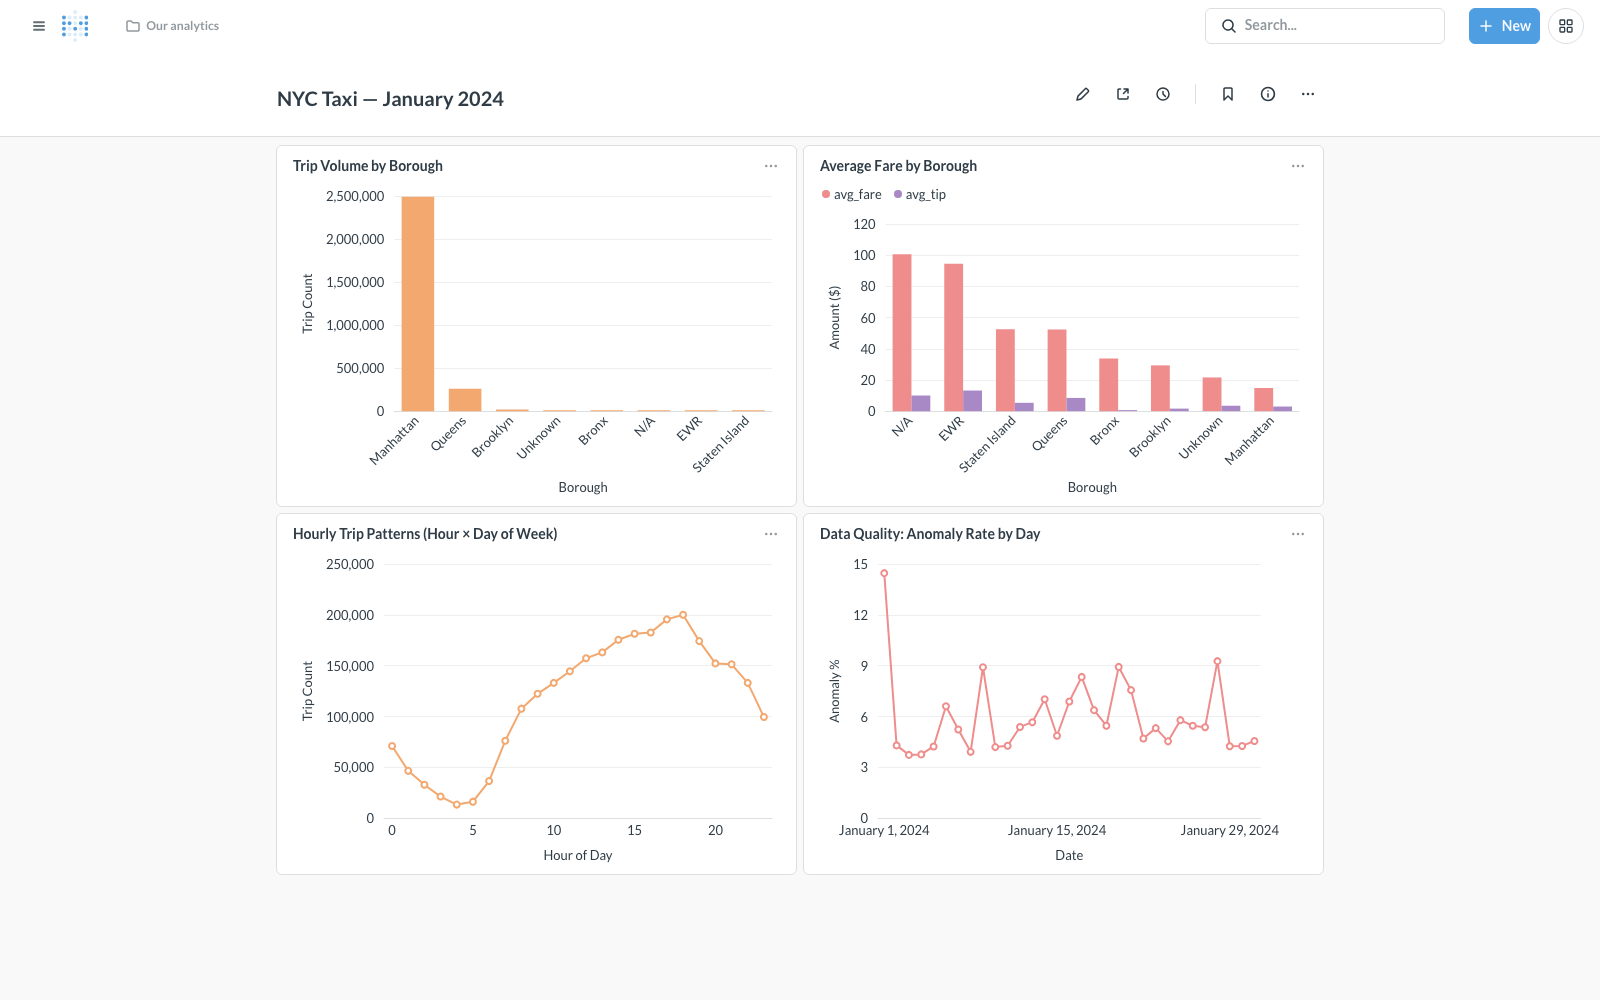
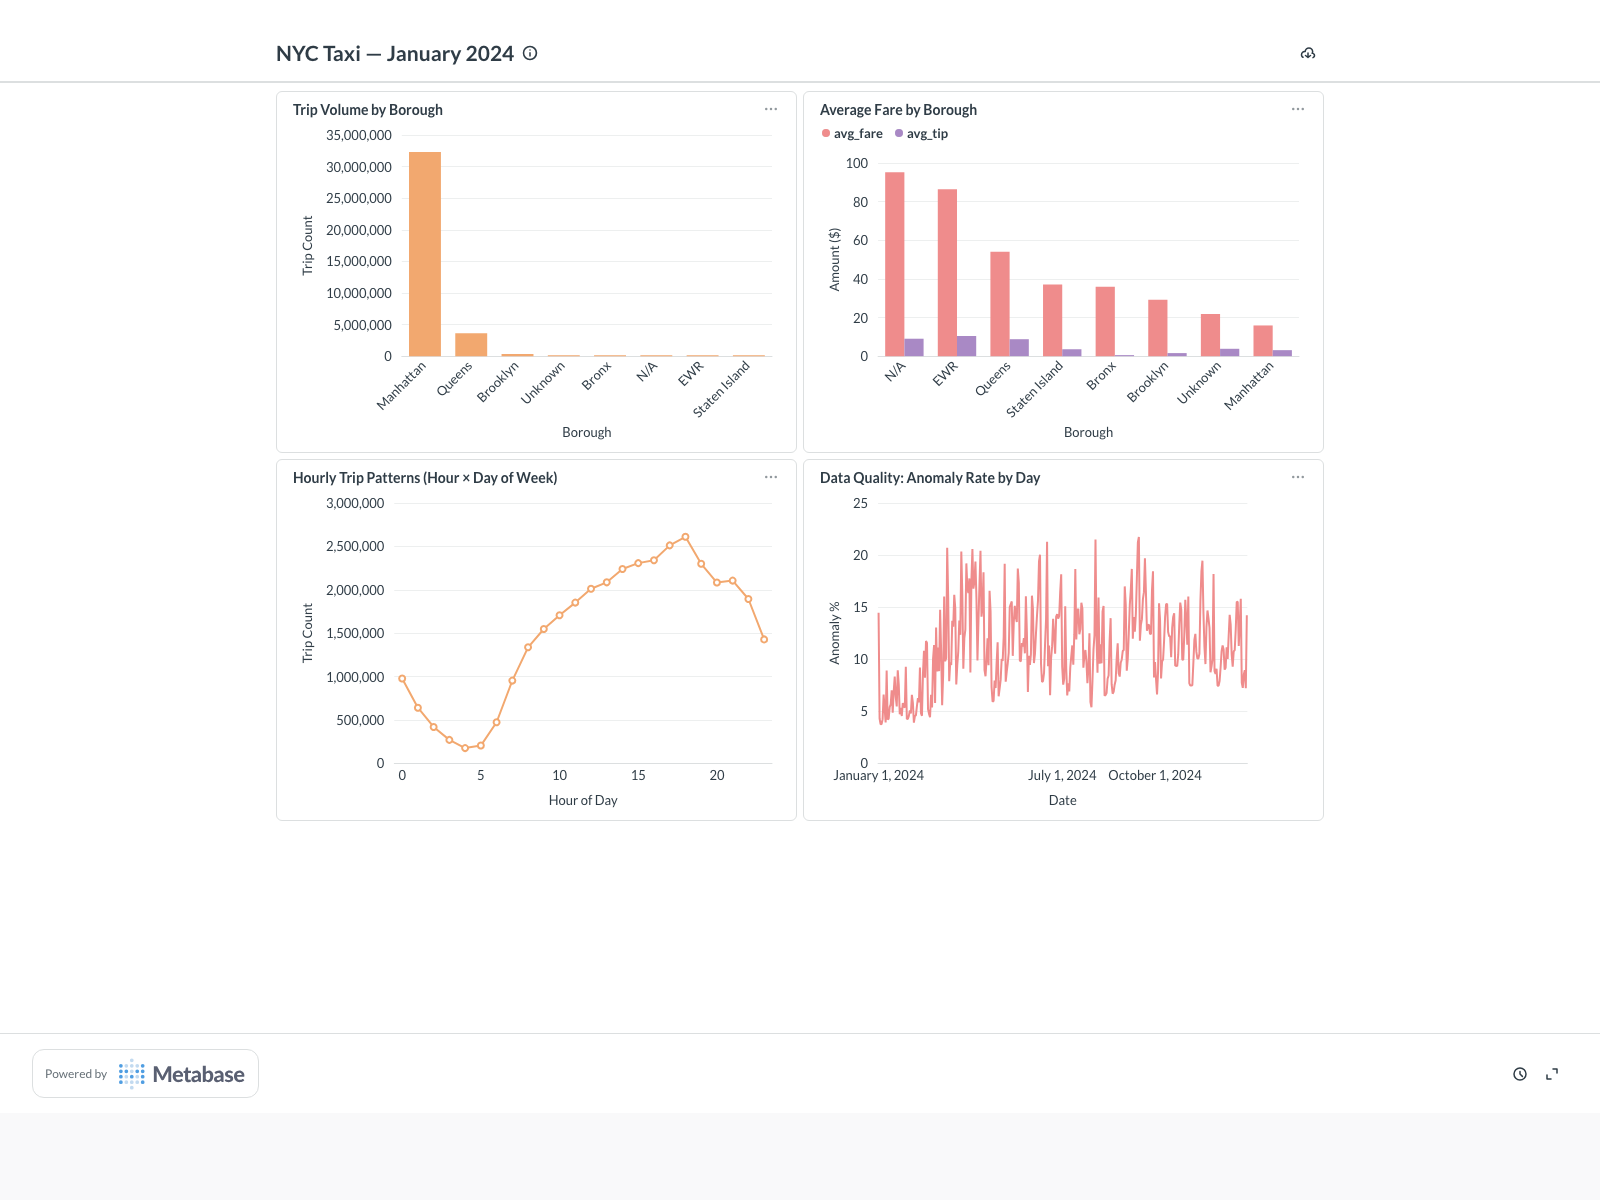
docs: update dashboard screenshot with full year 2024 data

diff --git a/docs/changelog.md b/docs/changelog.md
@@ -10,6 +10,8 @@ Categories: `INFRA`, `INGEST`, `DBT`, `AIRFLOW`, `DASHBOARD`, `DOCS`, `FIX`, `RE
 
 ## Log
 
+[2026-04-13] DOCS: Updated dashboard screenshot to show full year 2024 data (all 12 months, 41.2M rows). Previous screenshot was from April 11 when only partial data was loaded. Screenshot now shows: Trip Volume by Borough (up to 35M for Manhattan), Average Fare by Borough, Hourly Trip Patterns, and Data Quality Anomaly Rate spanning Jan–Oct 2024. (docs/dashboard_screenshot.png)
+
 [2026-04-13] STREAMING: Added hybrid batch+streaming layer. Kafka (apache/kafka:latest, KRaft, port 9092) added to docker-compose.yml. Python producer (streaming/producer.py) replays raw.yellow_taxi_trips at configurable speed (default 60×) as JSON events on topic taxi-trips. PySpark Structured Streaming consumer (streaming/consumer.py) reads via foreachBatch and writes to raw.live_trips with deterministic event_id = concat(kafka_partition, '-', kafka_offset). UNIQUE(kafka_partition, kafka_offset) constraint enforces idempotency at DB level. Verified: 10,000 rows ingested, 12/12 dbt tests pass on stg_live_trips. Implementation notes: Python 3.14 (main venv) is incompatible with PySpark — uses .streaming-venv (Python 3.13). Java 23 removes Subject.getSubject() used by Hadoop 3.4.2 bundled in PySpark 4.1.1 — resolved by installing Java 21 LTS via Homebrew (openjdk@21) and setting JAVA_HOME in make streaming-consumer. Kafka connector + JDBC JARs pre-installed into PySpark's bundled jars dir (bypasses --jars/--packages flags which trigger the incompatible Hadoop FileSystem path resolution). (docker-compose.yml, scripts/streaming/migrate_live_trips.py, streaming/producer.py, streaming/consumer.py, streaming/download_jars.py, dbt/models/staging/stg_live_trips.sql, dbt/macros/clean_trip_fields.sql, dbt/models/staging/stg_yellow_taxi_trips.sql, dbt/models/staging/sources.yml, dbt/models/staging/schema.yml, requirements.txt, Makefile, .gitignore)
 
 [2026-04-11] INFRA: Initial project scaffold created — CLAUDE.md, docker-compose.yml, Makefile, skills, commands, documentation (all files)
